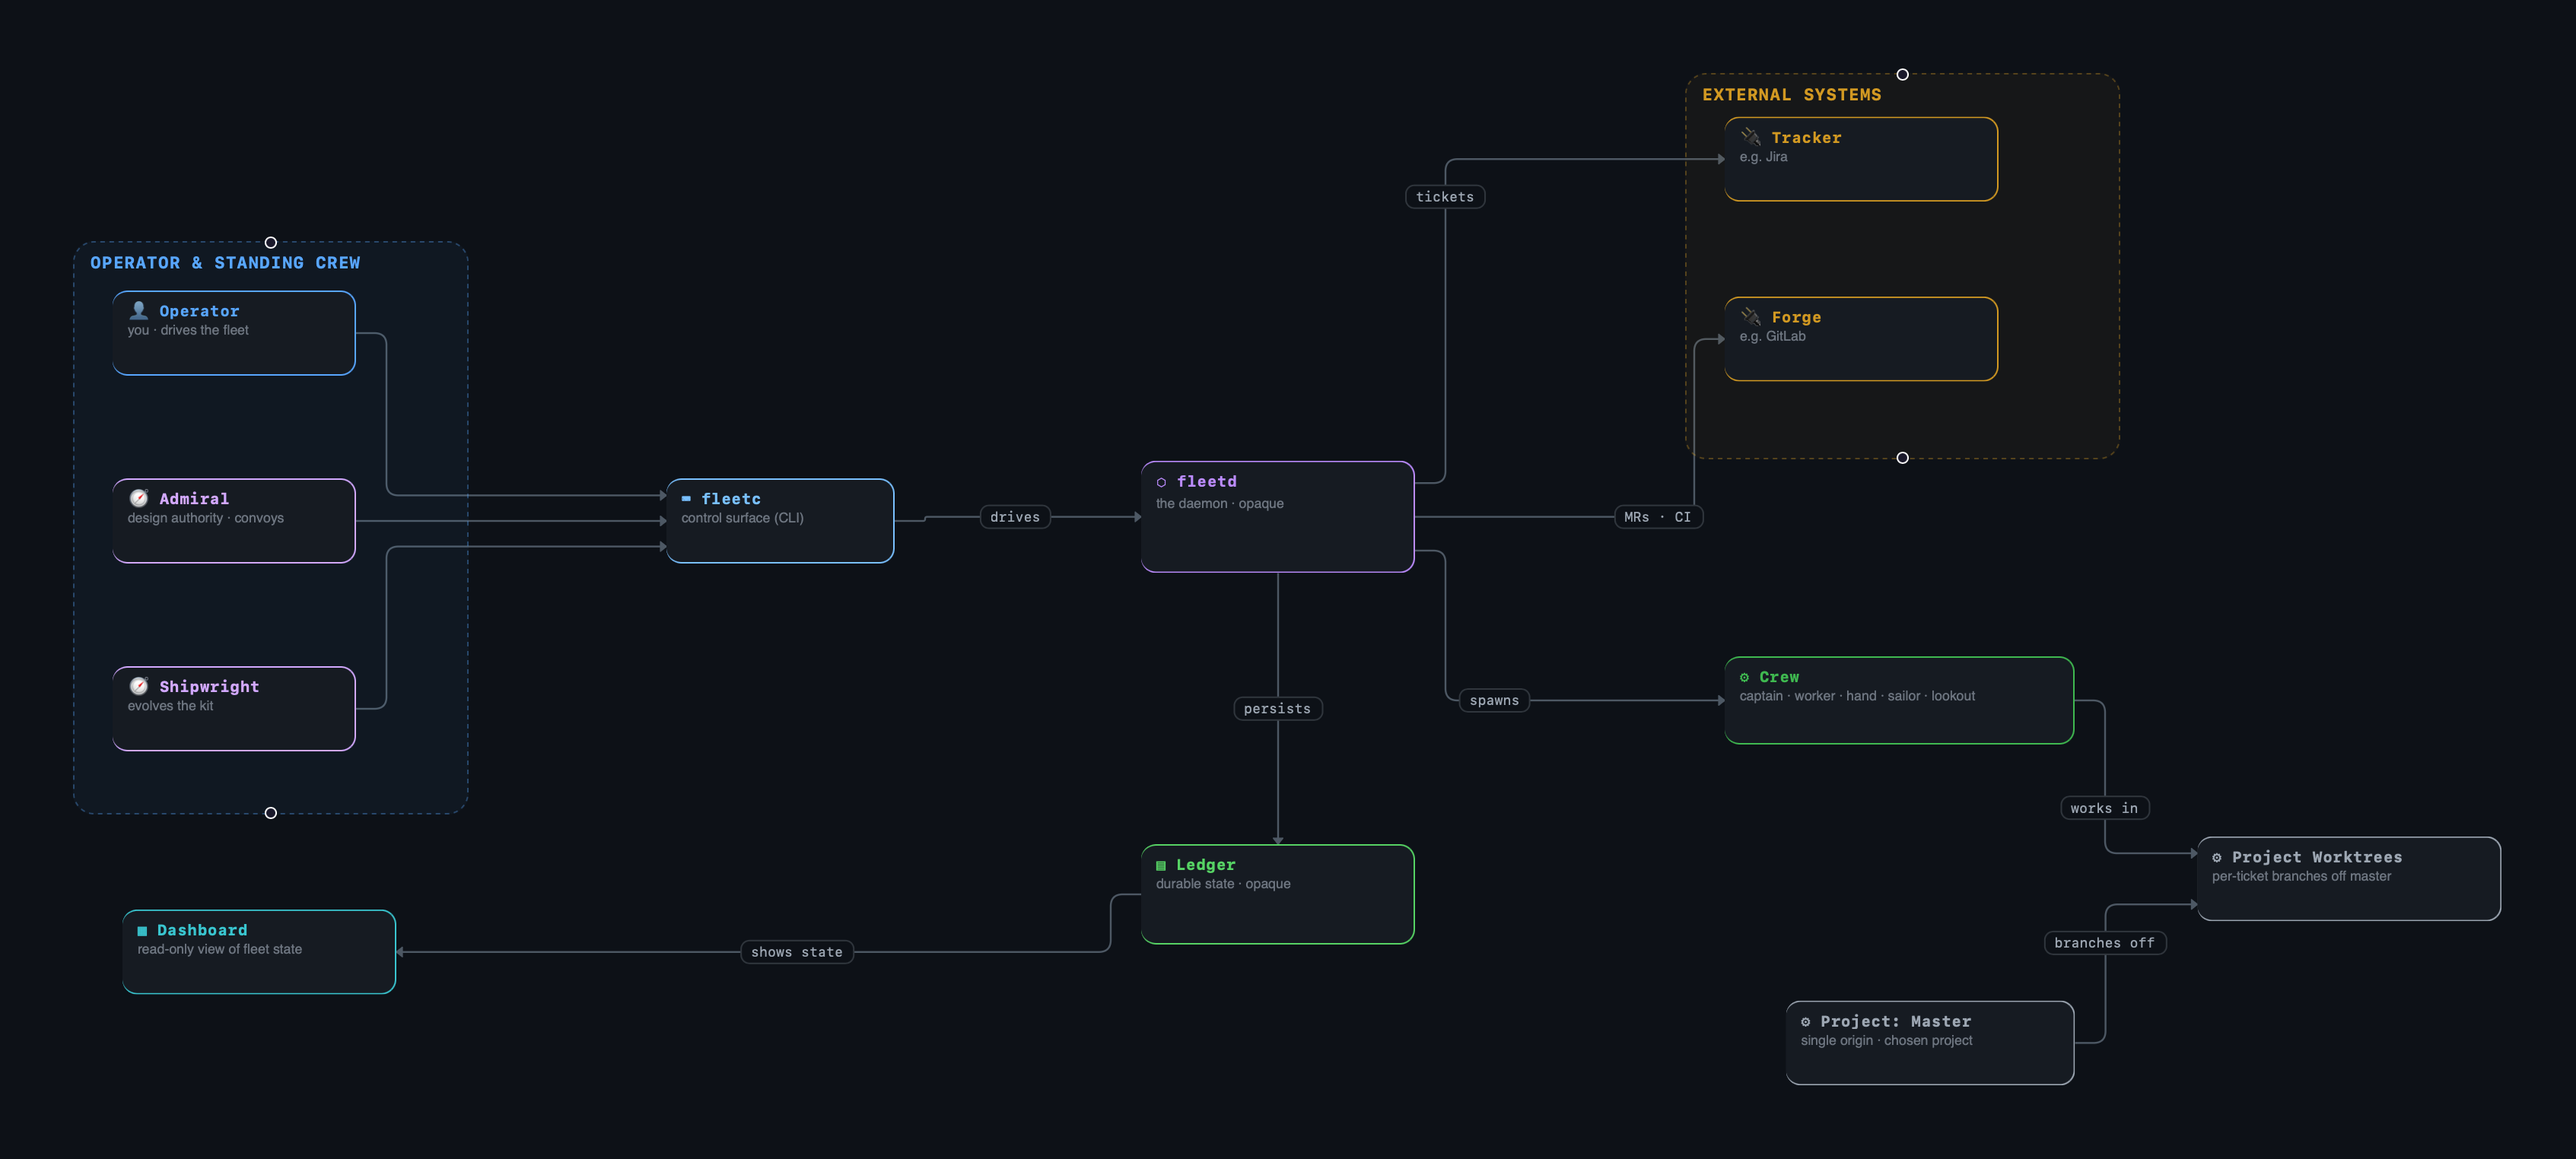
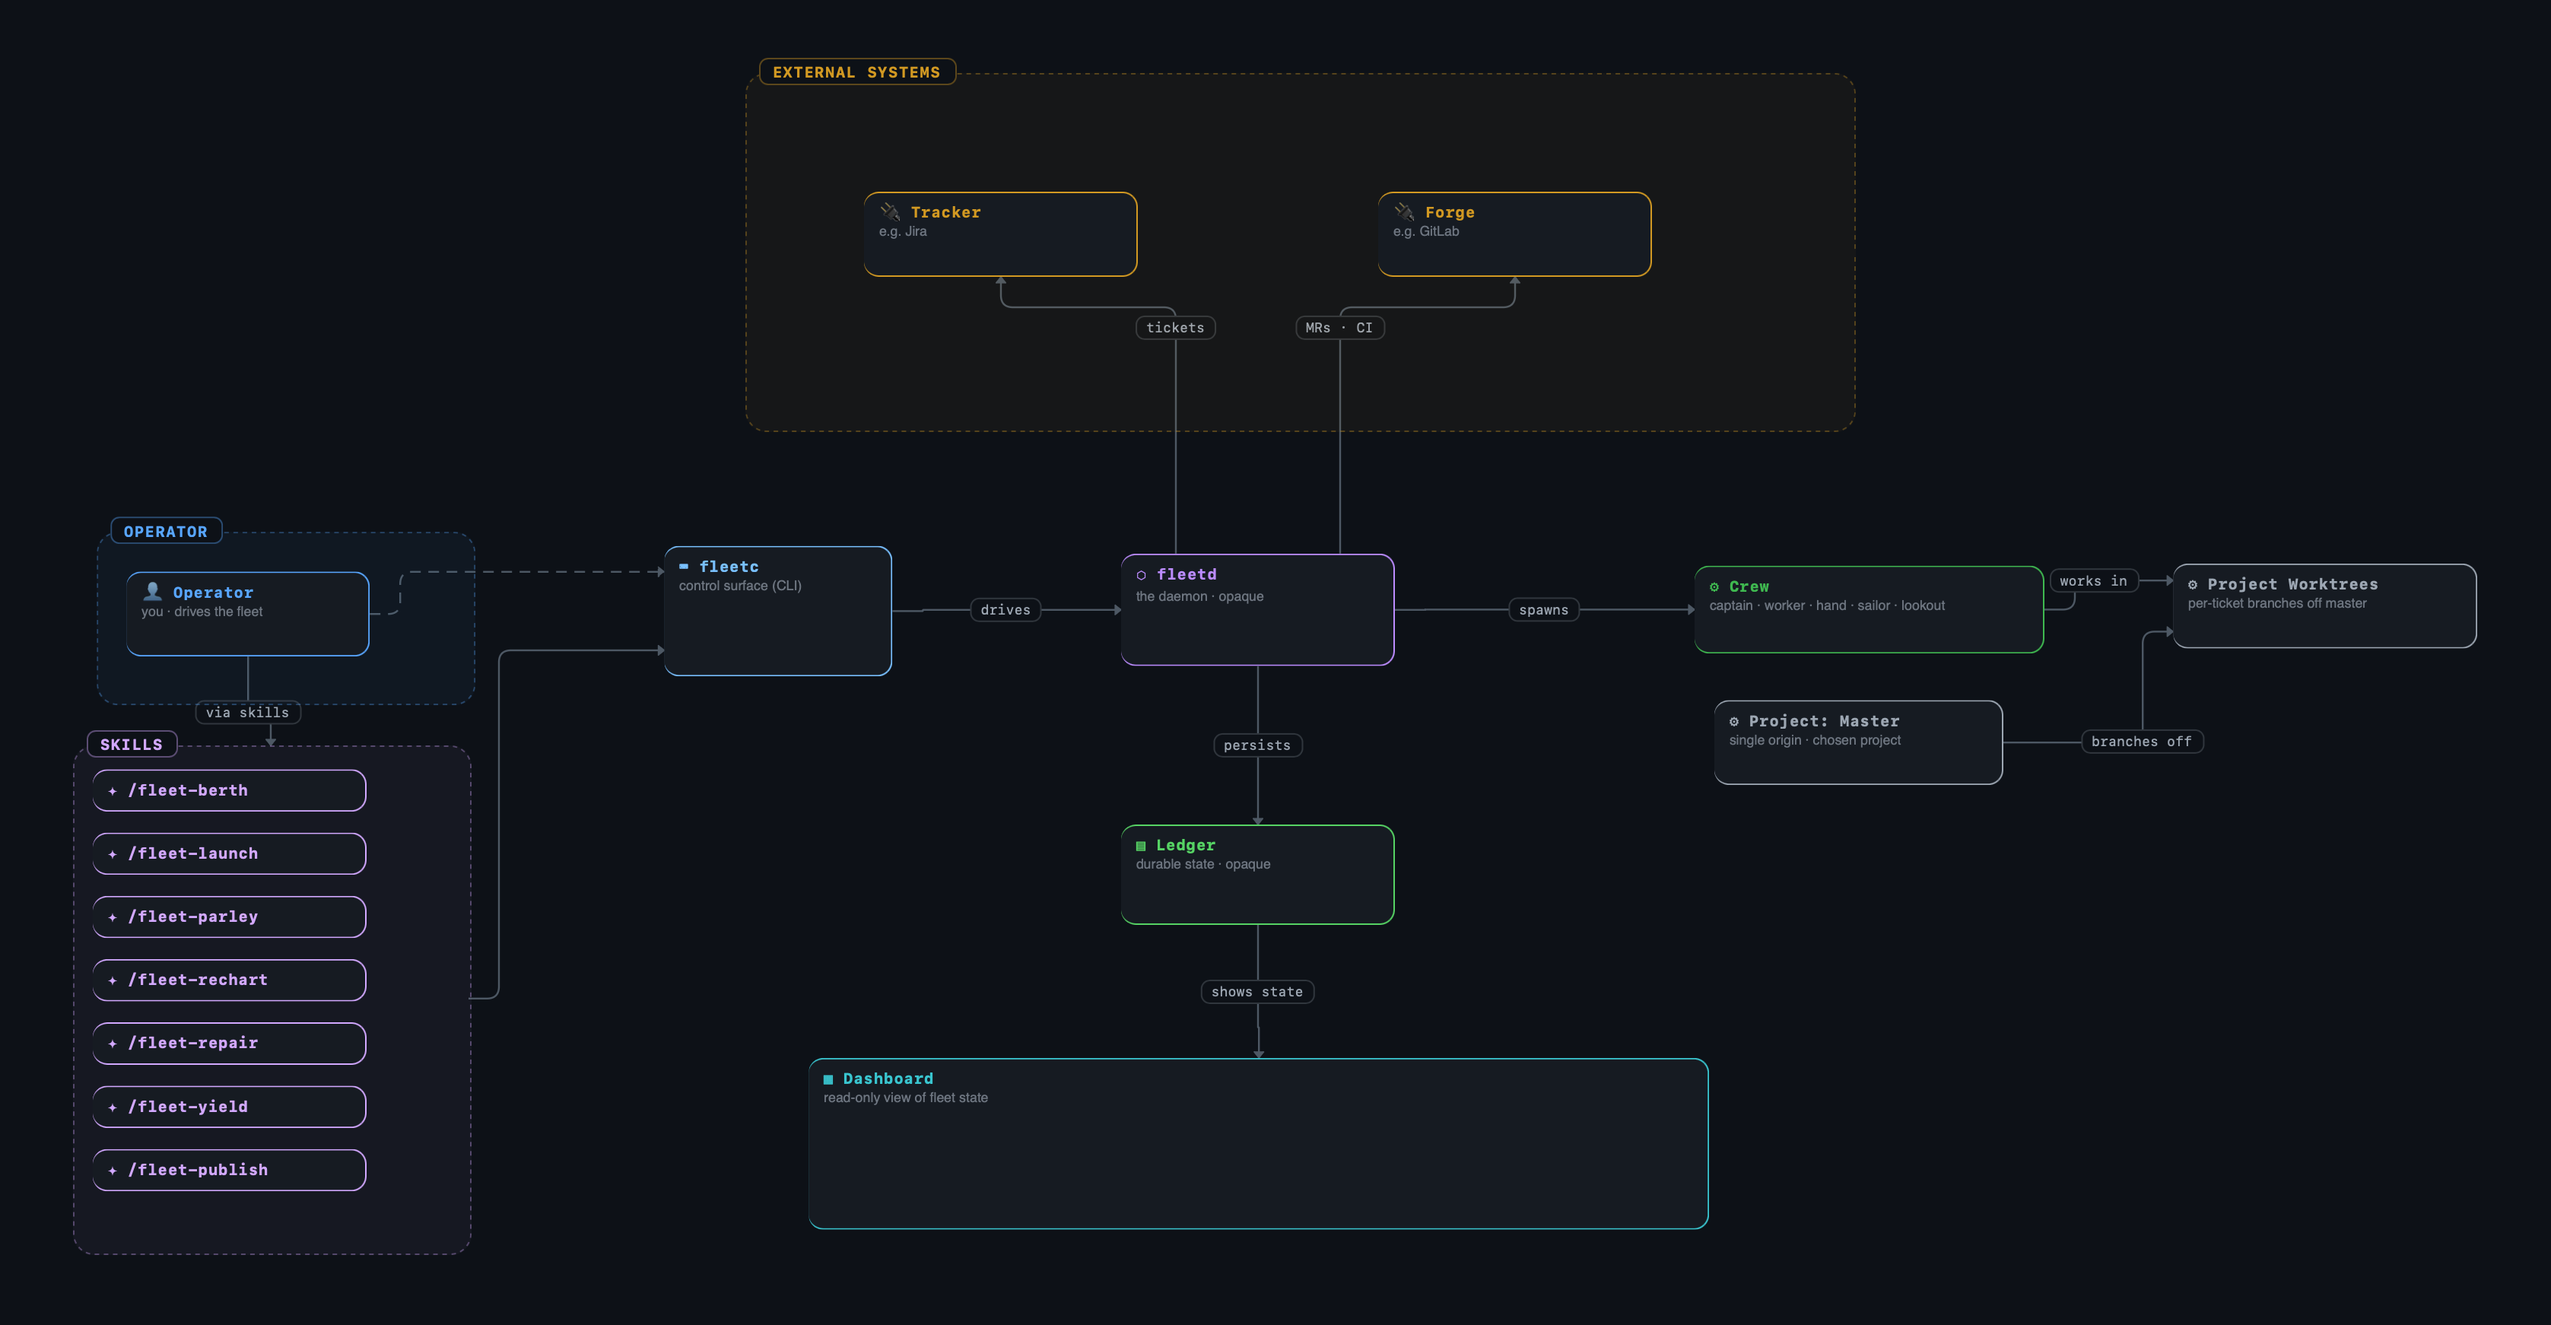
Updated README

diff --git a/README.md b/README.md
@@ -12,7 +12,7 @@ plan, cogs, transcripts, and cost. `fleetd` owns the state and drives the line;
 
 Forward backlog: [`TODO.md`](TODO.md).
 
-![title](demos/assets/fleet-overview.png)
+![Fleet overview — operator → fleetc → fleetd → crew → project, with the skills, external systems, ledger and dashboard](demos/assets/fleet-overview.png)
 
 ---
 
